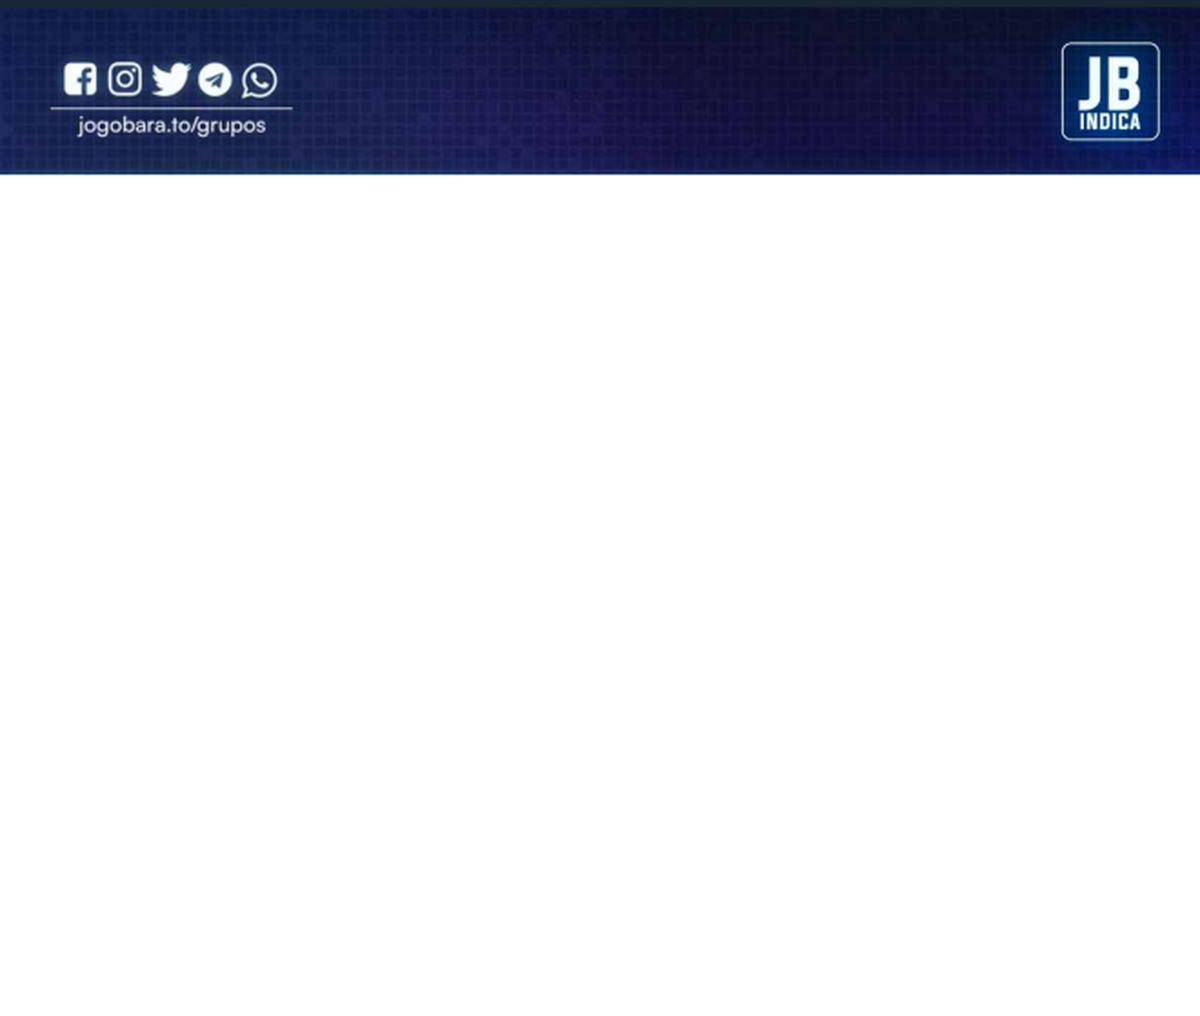
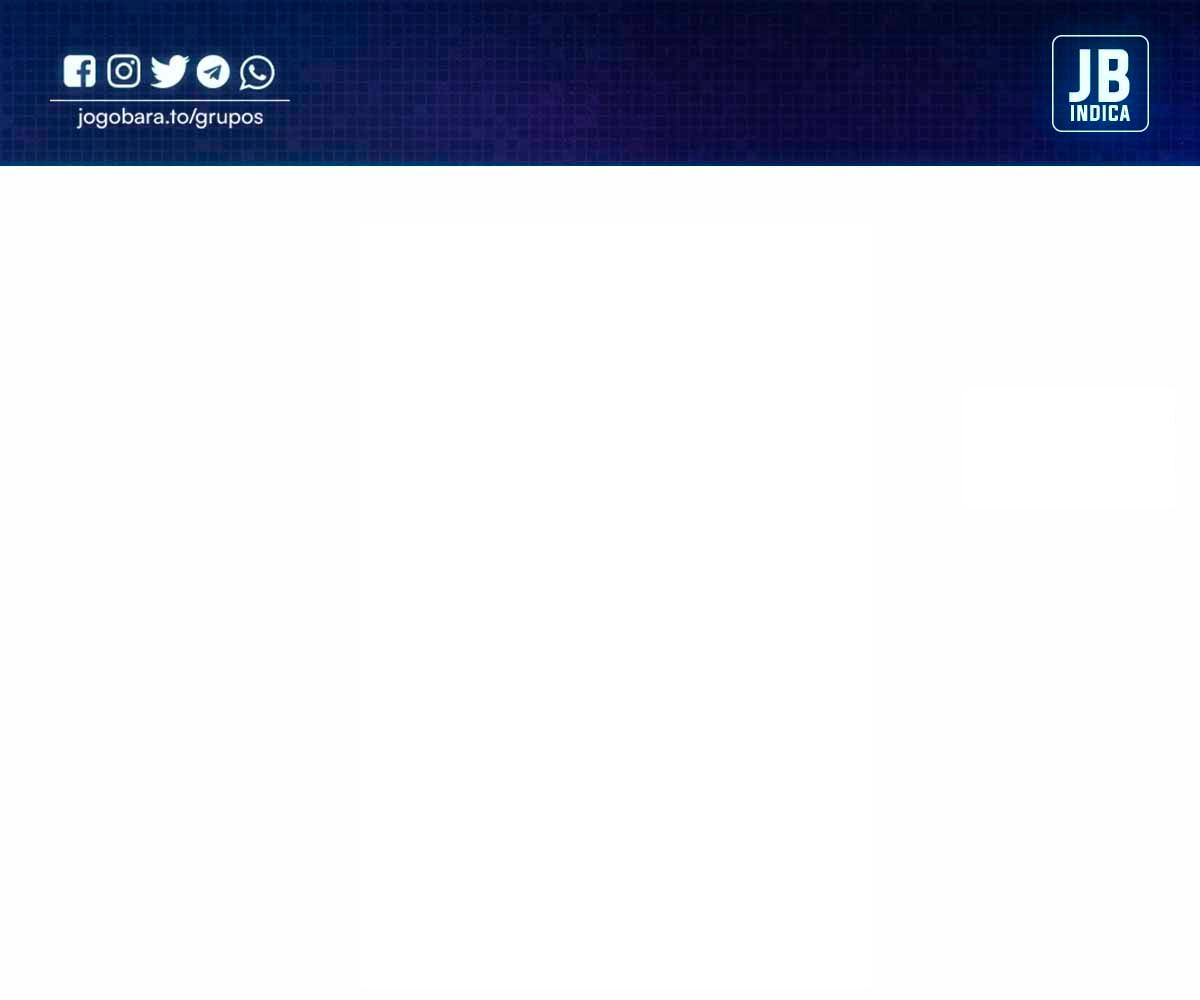
Fundo original do JB Indica (1200x1000)
Claude-Session: https://claude.ai/code/session_01EcQNSswHSPu1ChFXwomxVV

Changed region(s): [[0.0, 0.0, 1.0, 0.186], [0.185, 0.0, 0.2158, 0.031]]

diff --git a/bot-conversor-jogobarato/lib/arte.js b/bot-conversor-jogobarato/lib/arte.js
@@ -138,14 +138,14 @@ const JOGO_BARATO = {
 // ---------- modelo JB Indica ----------
 // Título centralizado, preço em preto à direita acima do produto, produto embaixo
 const JB_INDICA = {
-  largura: 1200, altura: 1016, fundo: png64('fundo-jbindica.png'),
+  largura: 1200, altura: 1000, fundo: png64('fundo-jbindica.png'),
   camadas({ titulo, preco, condicao, capa, tipo }) {
     const tam = titulo.length <= 45 ? 39 : titulo.length <= 60 ? 32 : 27;
     const c = [h('div', {
       position: 'absolute', left: 60, top: 256, width: 1080, justifyContent: 'center', textAlign: 'center',
       color: '#2b2b2b', fontFamily: 'Outfit', fontWeight: 500, fontSize: tam, lineHeight: 1.2
     }, titulo)];
-    if (tipo) c.push(capaImg(capa, tipo, { left: 200, top: 470, width: 800, height: 520 }));
+    if (tipo) c.push(capaImg(capa, tipo, { left: 200, top: 470, width: 800, height: 510 }));
     if (preco) {
       c.push(h('div', {
         position: 'absolute', right: 30, top: 396, flexDirection: 'column', alignItems: 'flex-end',
